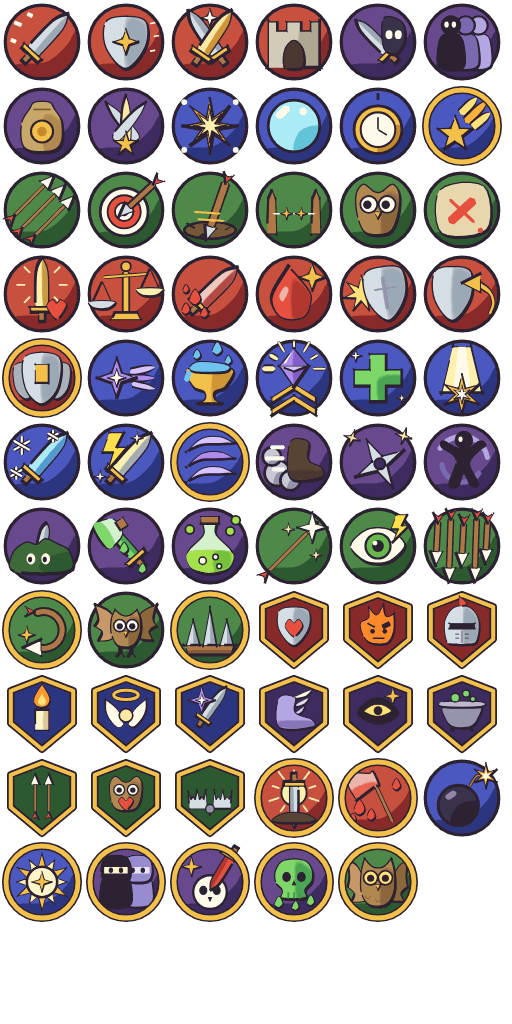
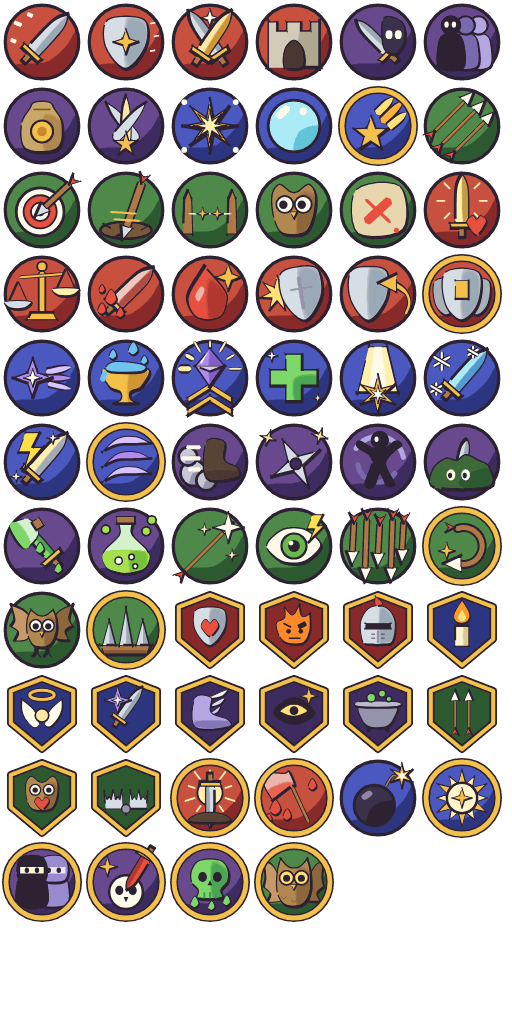
The Magician swings a sword as a swordswoman, and her clothes keep still as she casts
Mitch, AD:
- Her own sword swing, `melee`: her body layers play it when she swings a sword
  (her plain Attack with one, Spell Thrust, Arc Slash, Blade Whirl), the rest on
  the plain attack. A staff or wand never swings.
- Her cast is her standing frame with only the arms moving, so her coat, hat,
  boots and cape now keep still on it instead of following the Knight's lunge and
  sliding off her.
- The Pocket Watch's icon is out of the abilities atlas.

diff --git a/Game Developer/client/src/hero.ts b/Game Developer/client/src/hero.ts
@@ -388,6 +388,8 @@ function layersFor(scene: Phaser.Scene, c: Character): Layer[] {
 }
 
 const OWN_ATTACK: Partial<Record<ClassId, string>> = { mage: 'attack1_wizard', ranger: 'attack1_archer' };
+/** The worn pieces that keep still while the Magician casts: coat, hat, boots, cape, charm (Mitch, AD, 2026-11-03). */
+const STILL_WHILE_CASTING = /(?:^|_)(?:coat|coat_near|hat|boots|boots_base|cape|charm)$/;
 
 /** A hero in layers. `root` is a container whose x, y is where the feet stand; the scene calls `update(delta)` each frame. */
 export class Hero {
@@ -407,6 +409,8 @@ export class Hero {
   private index = 0;
   private elapsed = 0;
   private hold = false;
+  /** The Magician swings a sword on her `melee` frames instead of casting (Mitch, AD, 2026-11-03). */
+  private melee = false;
   private done = false;
 
   constructor(scene: Phaser.Scene, character: Character, x: number, y: number, scale: number) {
@@ -455,8 +459,9 @@ export class Hero {
   }
 
   /** Play a clip from its first frame; a one-shot clip goes back to `stand` when it ends unless `hold` is set (a guard holds). */
-  play(action: HeroAction, hold = false, speed = 1): void {
+  play(action: HeroAction, hold = false, speed = 1, melee = false): void {
     if (!CLIPS[action]) return;
+    this.melee = melee;
     this.speed = speed;
     this.clip = action;
     this.index = 0;
@@ -497,6 +502,17 @@ export class Hero {
       const set = ARCHER_SETS[l.key];
       const own = `${l.piece}/${this.clip}_archer/${n}`;
       if (this.bow && set && has(this.scene, set.key, own)) return [set.key, own];
+    }
+    // The Magician (Mitch, AD, 2026-11-03): her attack1 is a cast. Casting, her worn pieces stay still on her standing frame, so
+    // they do not follow the Knight's lunge off her; swinging a sword, her body takes `melee` and the rest the plain attack1.
+    if (this.classId === 'mage' && this.clip === 'attack1') {
+      if (this.melee) {
+        const swing = `${l.piece}/melee/${n}`;
+        if (l.key === this.bodyKey && has(this.scene, l.key, swing)) return [l.key, swing];
+        return [has(this.scene, this.bodyKey, plain) ? this.bodyKey : l.key, plain];
+      }
+      const still = `${l.piece}/stand/0001`;
+      if (STILL_WHILE_CASTING.test(l.piece) && has(this.scene, l.key, still)) return [l.key, still];
     }
     const attack = this.clip === 'attack1' && OWN_ATTACK[this.classId] && (this.classId !== 'ranger' || this.bow) ? `${l.piece}/${OWN_ATTACK[this.classId]}/${n}` : '';
     if (attack && has(this.scene, l.key, attack)) return [l.key, attack];

diff --git a/Game Developer/client/src/scenes/FightScene.ts b/Game Developer/client/src/scenes/FightScene.ts
@@ -478,7 +478,9 @@ ${used ? 'used' : !held ? `needs ${needsWords(a?.needs)}` : `${mana} MP${cost ? 
           if (byOwl) this.owl?.strike(FIGHT_LAYOUT.enemyX - 70);
           else {
             // In a combo the hero swings fast and steps in once; a caster and an archer stay put.
-            this.hero?.play('attack1', false, combo > 0 ? 2.2 : 1);
+            // A Magician who is not casting swings her sword on her own melee frames (Mitch, AD, 2026-11-03).
+            const mageSwing = this.game_.me.classId === 'mage' && !spell && !star;
+            this.hero?.play('attack1', false, combo > 0 ? 2.2 : 1, mageSwing);
             if (combo <= 1 && !spell && !star && !bowShot) this.step(this.heroBody, 34);
           }
           this.after(byOwl ? (this.owl?.blowMs() ?? 0) : (this.hero?.blowMs(combo > 0 ? 2.2 : 1) ?? 0), () => {

diff --git a/Game Developer/docs/state/client.md b/Game Developer/docs/state/client.md
@@ -593,3 +593,4 @@ A Magician's damage spell (`SPELL_ELEMENT` in `FightScene`: arcane, fire, holy) 
 ## The Magician casts (Mitch, AD, 2026-11-03)
 
 Her `attack1` is now a cast (all atlases with her frames recopied). `assets/fx_spells`: `<school>_flare`, `_bolt` (a loop, drawn pointing right, turned to its line by `fly(..., turn)`), `_burst` for arcane, fire and holy (holy's at the foe's feet), and `power_on` / `power_aura` for Magic Power, drawn behind her (`behind`). A spell: the flare at her free hand (50 px before her feet, 80 up) at the cast's blow frame, the bolt at about 600 px a second, the burst and the foe's reaction when it lands. Her plain Attack with a staff or wand is a small arcane cast; with a sword (Spellsword) she still steps in. A heal plays the holy burst at her feet. Falling Star lands with the fire burst. Loaded only when a Magician fights.
+While the Magician casts, her coat, hat, boots, cape and charm stay on `stand/0001` (`STILL_WHILE_CASTING`), so they do not follow the Knight's lunge off her; her gloves, weapon and body play attack1. When she swings a sword (her plain Attack with a sword, Spell Thrust, Arc Slash, Blade Whirl), `Hero.play(..., melee)` puts her body layers on her own `melee` frames (Mitch, AD) and the rest on plain attack1.
